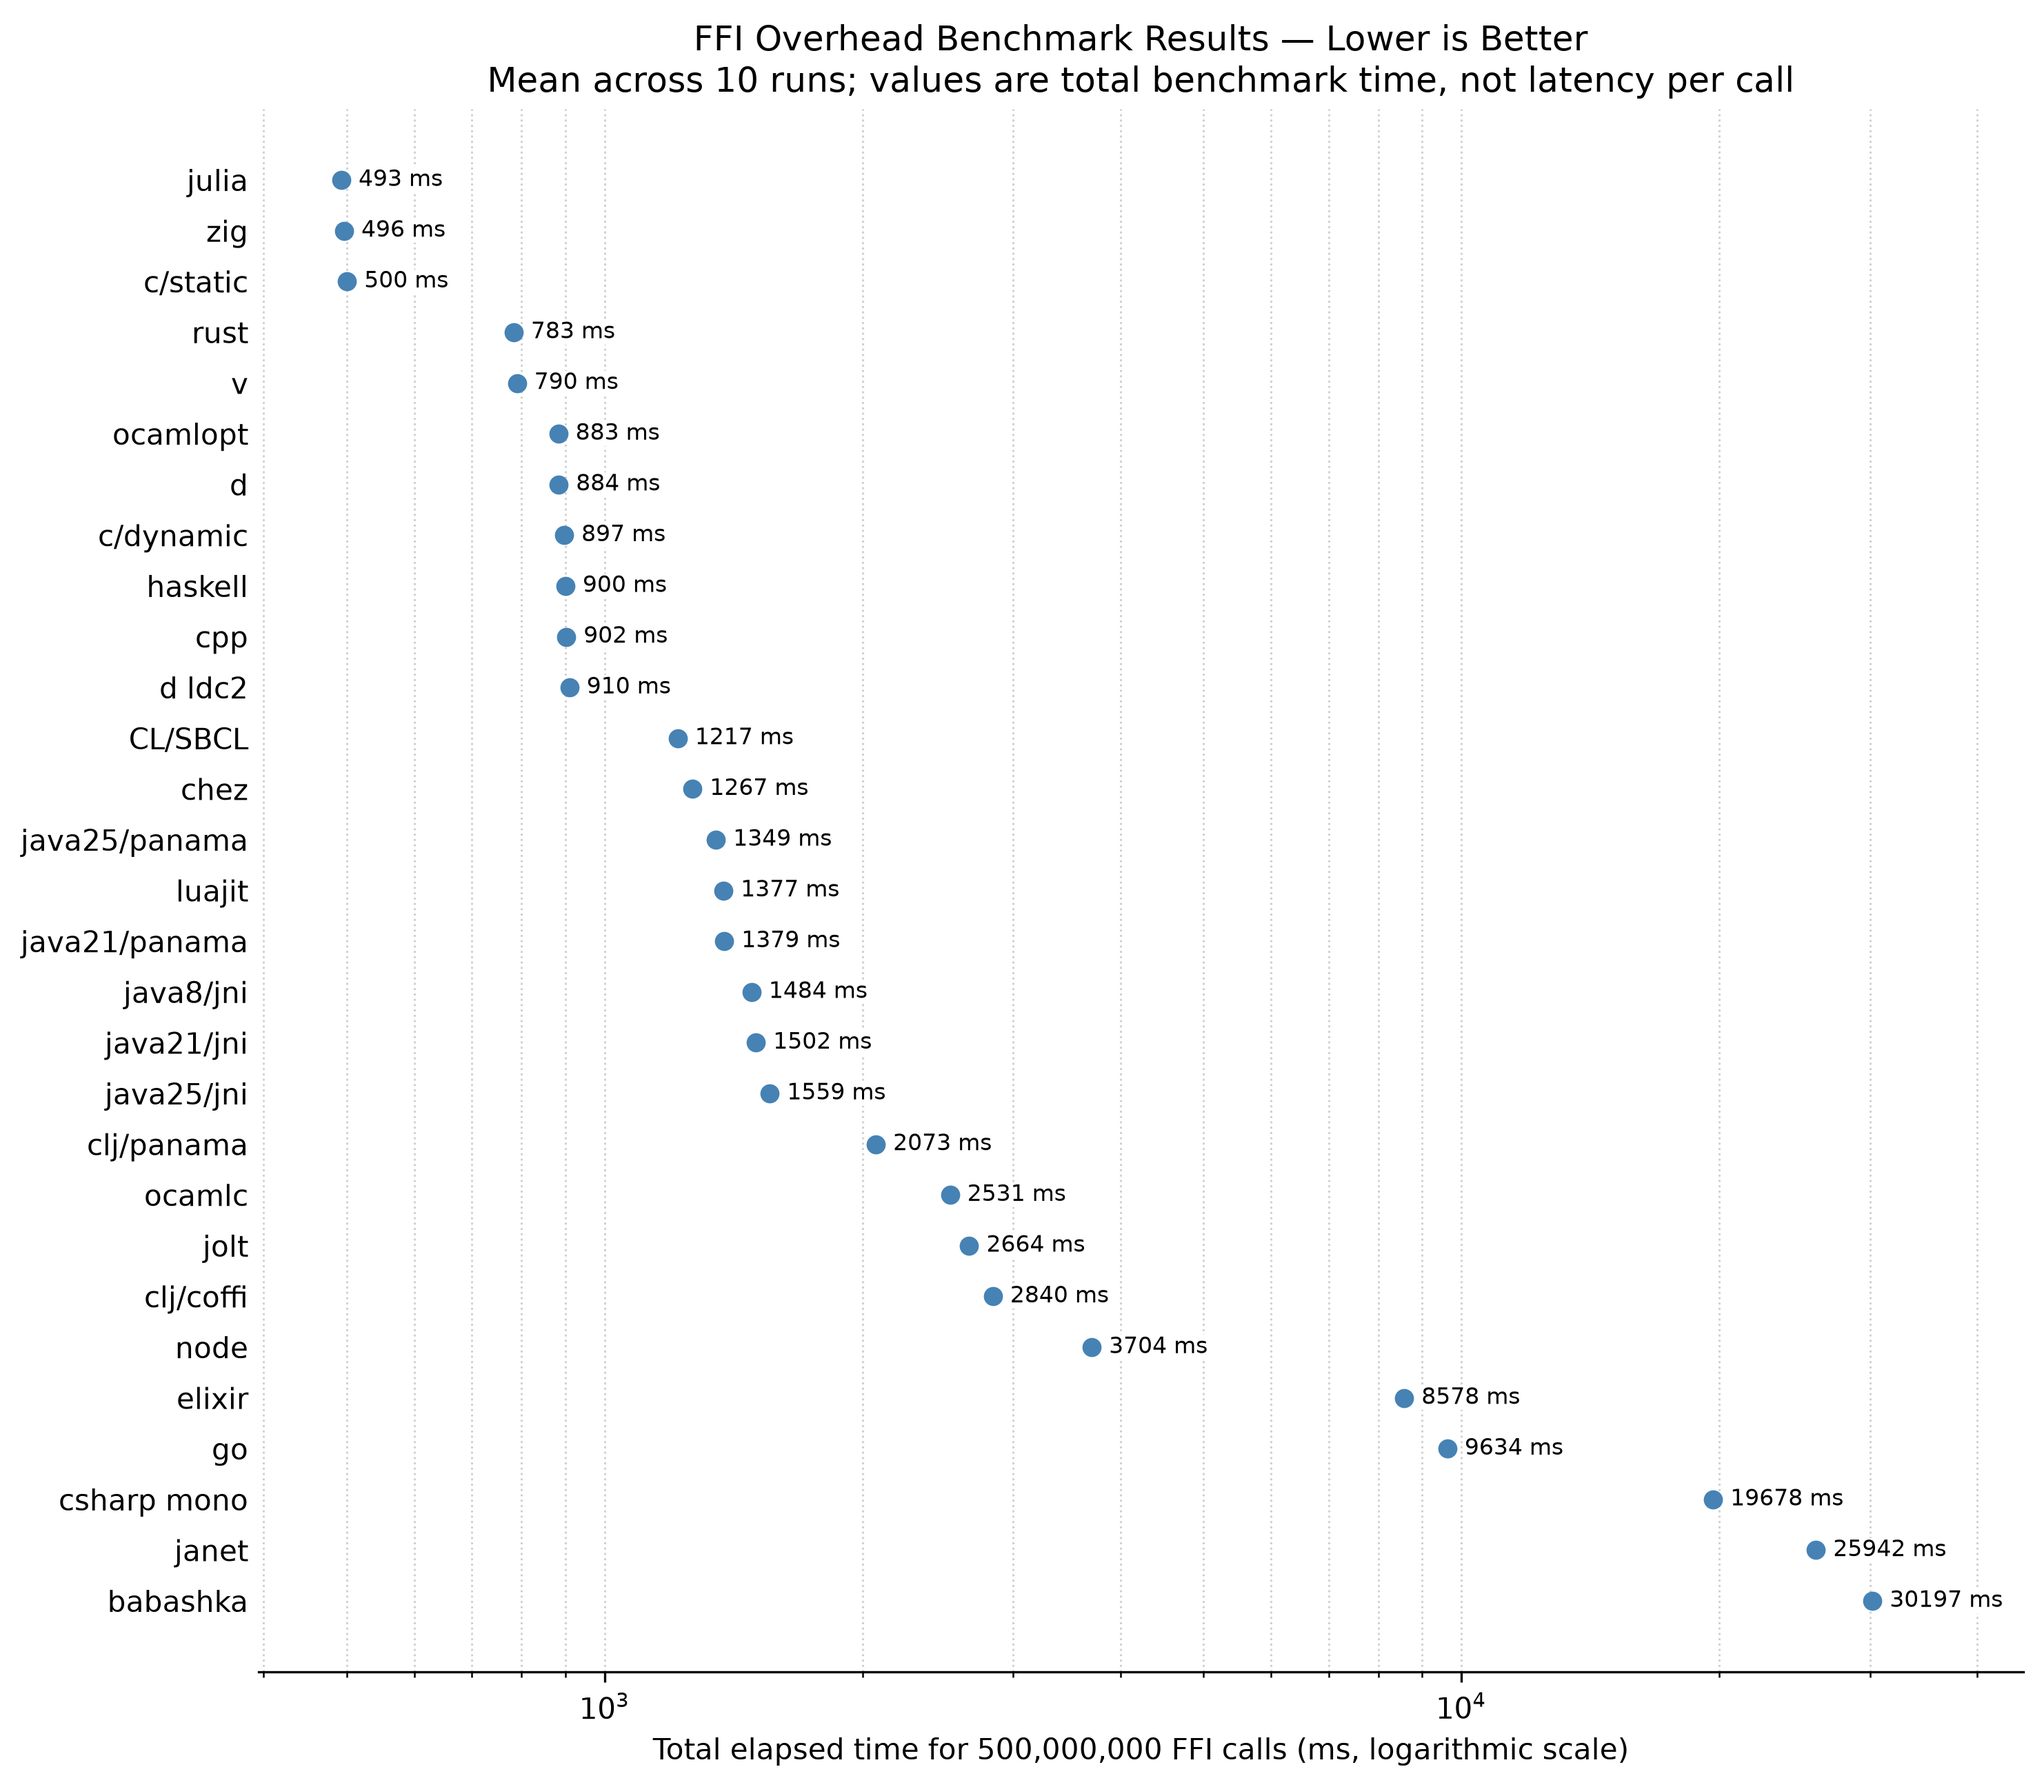
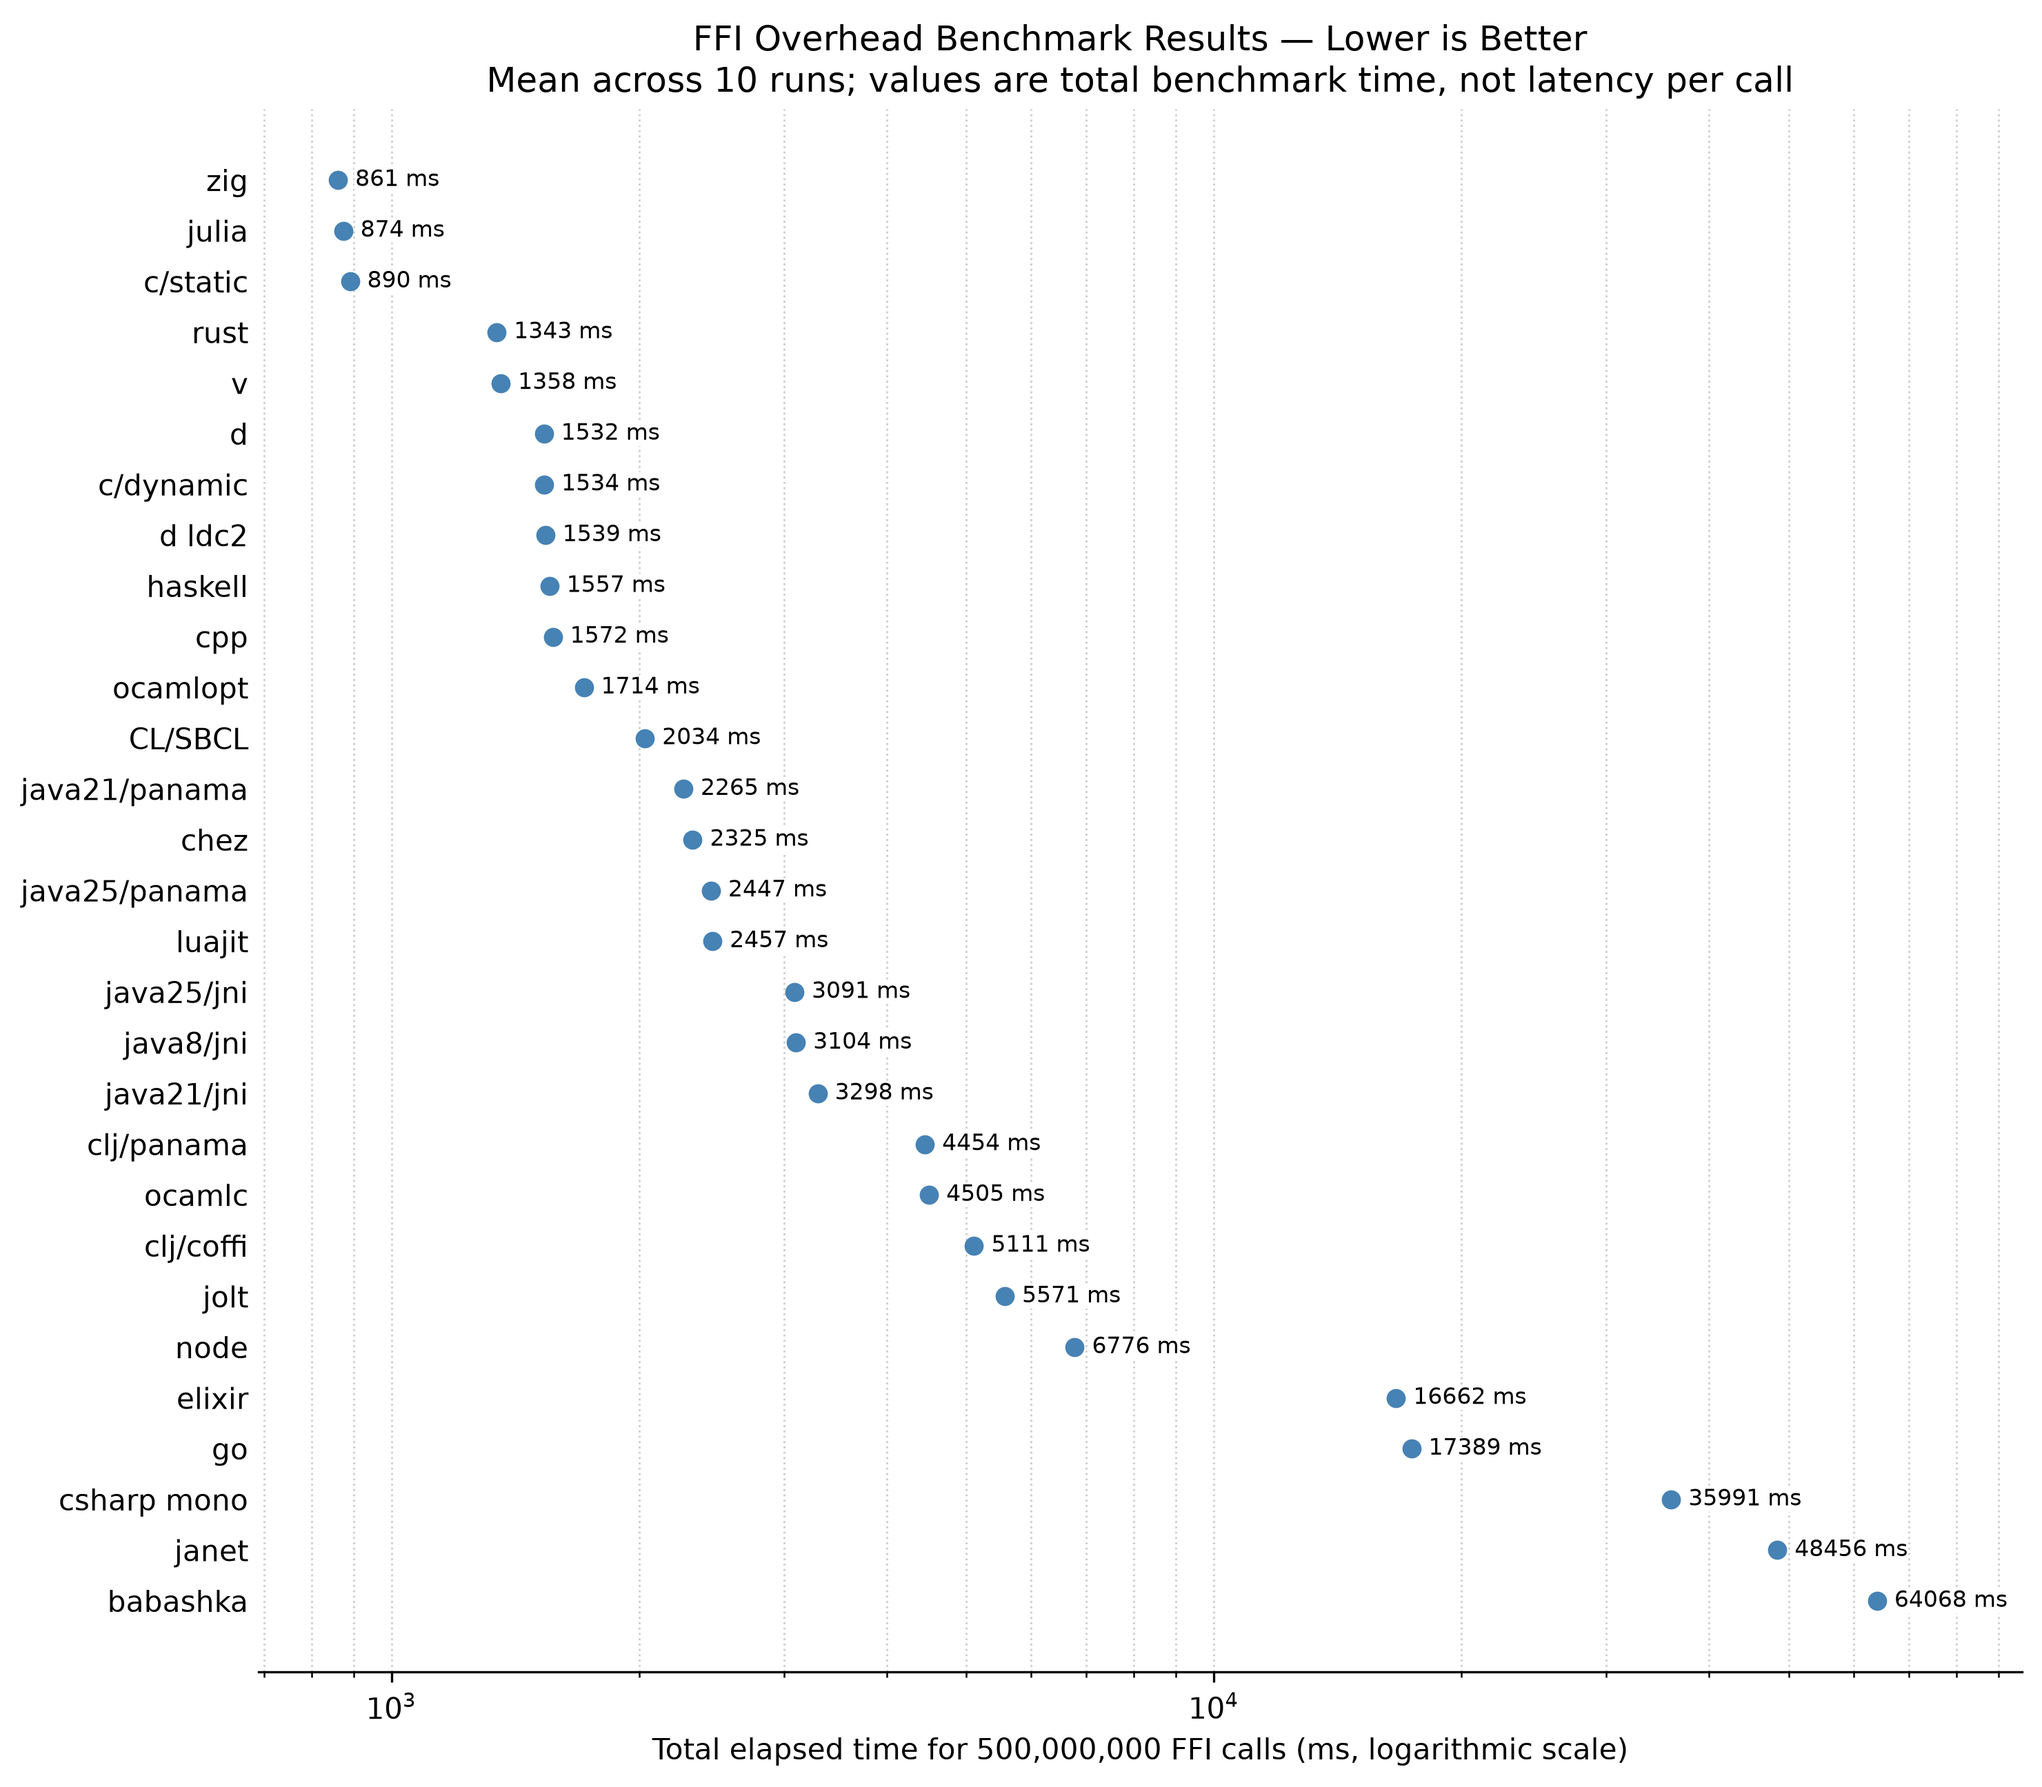
bench: publish Sprite benchmark results

diff --git a/README.md b/README.md
@@ -14,37 +14,37 @@ comparing the c ffi overhead on various programming languages
 
 | Benchmark | Mean | Min | Max | Std dev | vs baseline |
 |---|---:|---:|---:|---:|---:|
-| c/static | 500 ms | 491 ms | 506 ms | 4.9 ms | 1.00x (baseline) |
-| julia | 493 ms | 481 ms | 504 ms | 8.7 ms | 1.02x faster |
-| zig | 496 ms | 494 ms | 499 ms | 1.4 ms | 1.01x faster |
-| rust | 783 ms | 777 ms | 794 ms | 4.8 ms | 1.57x slower |
-| v | 790 ms | 778 ms | 797 ms | 5.9 ms | 1.58x slower |
-| ocamlopt | 883 ms | 880 ms | 886 ms | 2.2 ms | 1.76x slower |
-| d | 884 ms | 872 ms | 912 ms | 15.1 ms | 1.77x slower |
-| c/dynamic | 897 ms | 881 ms | 909 ms | 7.2 ms | 1.79x slower |
-| haskell | 900 ms | 883 ms | 934 ms | 15.0 ms | 1.80x slower |
-| cpp | 902 ms | 893 ms | 920 ms | 8.8 ms | 1.80x slower |
-| d ldc2 | 910 ms | 875 ms | 979 ms | 30.4 ms | 1.82x slower |
-| CL/SBCL | 1217 ms | 1194 ms | 1285 ms | 26.1 ms | 2.43x slower |
-| chez | 1267 ms | 1204 ms | 1605 ms | 123.1 ms | 2.53x slower |
-| java25/panama | 1349 ms | 1289 ms | 1429 ms | 37.7 ms | 2.70x slower |
-| luajit | 1377 ms | 1368 ms | 1384 ms | 4.8 ms | 2.75x slower |
-| java21/panama | 1379 ms | 1244 ms | 1484 ms | 64.3 ms | 2.76x slower |
-| java8/jni | 1484 ms | 1456 ms | 1515 ms | 21.7 ms | 2.97x slower |
-| java21/jni | 1502 ms | 1441 ms | 1554 ms | 39.7 ms | 3.00x slower |
-| java25/jni | 1559 ms | 1480 ms | 1682 ms | 75.9 ms | 3.12x slower |
-| clj/panama | 2073 ms | 1976 ms | 2114 ms | 39.9 ms | 4.14x slower |
-| ocamlc | 2531 ms | 2437 ms | 3158 ms | 221.2 ms | 5.06x slower |
-| jolt | 2664 ms | 2599 ms | 2760 ms | 53.7 ms | 5.32x slower |
-| clj/coffi | 2840 ms | 2704 ms | 3032 ms | 101.3 ms | 5.68x slower |
-| node | 3704 ms | 3623 ms | 3767 ms | 48.5 ms | 7.40x slower |
-| elixir | 8578 ms | 8451 ms | 8840 ms | 108.9 ms | 17.14x slower |
-| go | 9634 ms | 9401 ms | 9868 ms | 161.1 ms | 19.25x slower |
-| csharp mono | 19678 ms | 19502 ms | 20027 ms | 185.3 ms | 39.32x slower |
-| janet | 25942 ms | 25720 ms | 26313 ms | 232.9 ms | 51.84x slower |
-| babashka | 30197 ms | 30056 ms | 30907 ms | 262.1 ms | 60.35x slower |
+| c/static | 890 ms | 841 ms | 1146 ms | 92.9 ms | 1.00x (baseline) |
+| zig | 861 ms | 844 ms | 911 ms | 20.4 ms | 1.03x faster |
+| julia | 874 ms | 847 ms | 902 ms | 19.1 ms | 1.02x faster |
+| rust | 1343 ms | 1333 ms | 1373 ms | 11.3 ms | 1.51x slower |
+| v | 1358 ms | 1341 ms | 1377 ms | 9.3 ms | 1.53x slower |
+| d | 1532 ms | 1509 ms | 1576 ms | 21.3 ms | 1.72x slower |
+| c/dynamic | 1534 ms | 1517 ms | 1568 ms | 17.3 ms | 1.72x slower |
+| d ldc2 | 1539 ms | 1510 ms | 1562 ms | 17.1 ms | 1.73x slower |
+| haskell | 1557 ms | 1506 ms | 1632 ms | 42.4 ms | 1.75x slower |
+| cpp | 1572 ms | 1521 ms | 1692 ms | 48.9 ms | 1.76x slower |
+| ocamlopt | 1714 ms | 1691 ms | 1753 ms | 21.4 ms | 1.92x slower |
+| CL/SBCL | 2034 ms | 1986 ms | 2128 ms | 41.8 ms | 2.28x slower |
+| java21/panama | 2265 ms | 2188 ms | 2316 ms | 36.9 ms | 2.54x slower |
+| chez | 2325 ms | 2257 ms | 2410 ms | 46.3 ms | 2.61x slower |
+| java25/panama | 2447 ms | 2344 ms | 2904 ms | 164.3 ms | 2.75x slower |
+| luajit | 2457 ms | 2442 ms | 2482 ms | 11.4 ms | 2.76x slower |
+| java25/jni | 3091 ms | 3043 ms | 3150 ms | 34.3 ms | 3.47x slower |
+| java8/jni | 3104 ms | 3038 ms | 3292 ms | 78.0 ms | 3.49x slower |
+| java21/jni | 3298 ms | 3218 ms | 3394 ms | 58.7 ms | 3.70x slower |
+| clj/panama | 4454 ms | 4350 ms | 4729 ms | 147.3 ms | 5.00x slower |
+| ocamlc | 4505 ms | 4338 ms | 4863 ms | 160.5 ms | 5.06x slower |
+| clj/coffi | 5111 ms | 4926 ms | 5504 ms | 200.0 ms | 5.74x slower |
+| jolt | 5571 ms | 5209 ms | 5928 ms | 232.7 ms | 6.26x slower |
+| node | 6776 ms | 6664 ms | 6942 ms | 83.9 ms | 7.61x slower |
+| elixir | 16662 ms | 16307 ms | 17405 ms | 356.4 ms | 18.71x slower |
+| go | 17389 ms | 17169 ms | 17662 ms | 180.3 ms | 19.53x slower |
+| csharp mono | 35991 ms | 35685 ms | 36296 ms | 248.9 ms | 40.42x slower |
+| janet | 48456 ms | 47429 ms | 49488 ms | 608.0 ms | 54.41x slower |
+| babashka | 64068 ms | 63115 ms | 65191 ms | 722.0 ms | 71.95x slower |
 
-Ran on an AMD Ryzen 9 7950X3D 16-Core CPU.
+Ran on an AMD EPYC CPU.
 
 Raw data: [data/2026-08/data.csv](./data/2026-08/data.csv)
 
@@ -96,18 +96,24 @@ The Nix environment includes all required compilers, runtimes, and build tools, 
 
 Current environment (Nix) (2026-08):
 ```text
-- x86_64 Linux 6.18.39
-- CPU AMD Ryzen 9 7950X3D 16-Core Processor
+- x86_64 Linux 6.12.105-fly
+- CPU AMD EPYC
+# flake inputs
+- nixpkgs git 56c02bc00adcf003215cc4bd996d6efaf4cff188
+- flakelight git 4d9eabe93ff4d73cc195a0e8dec0f3fbac31c226
+- babashka-src git 44bb86e07025391c91dba75c4362e7d6248610b0
+- jolt git e8b018cc162cb61c4573f17213cb329c416bd42d
 - gcc/g++ 15.3.0
 - tup 0.8
 - python 3.14.7 (matplotlib 3.11.1, numpy 2.5.1)
 - zig 0.16.0
+- nim 2.2.10 (disabled - rpath issues)
 - v V 0.5.2
 - java8 1.8.0_504
 - java21 21.0.12
 - java25 25.0.4
 - go 1.26.5
-- rust 1.97.1
+- rust 1.97.1 (8bab26f4f 2026-07-14) (built from a source tarball)
 - dmd 2.112.1
 - ldc2 1.42.0
 - ghc 9.10.3
@@ -119,14 +125,13 @@ Current environment (Nix) (2026-08):
 - luajit 2.1.1774638290
 - julia 1.12.7
 - node 24.19.0
-- elixir 1.18.4 (Erlang/OTP 28)
-- janet 1.41.2-release
-- jolt aafa0fc
-- clojure 1.12.5 (coffi 1.0.615)
-- babashka 1.13.220-SNAPSHOT (libffi 3.8.0, plusone backend trampoline)
-- nim 2.2.10 (disabled - rpath issues)
 - dart 3.13.0 (disabled - deprecated native extensions)
 - wren not available (not in nixpkgs)
+- elixir 1.18.4 (Erlang/OTP 28)
+- janet 1.41.2-release
+- jolt git e8b018c
+- clojure 1.12.5 (coffi 1.0.615)
+- babashka 1.13.220-SNAPSHOT (git 44bb86e07025391c91dba75c4362e7d6248610b0, libffi 3.8.0, plusone backend trampoline)
 ```
 
 ### Run
